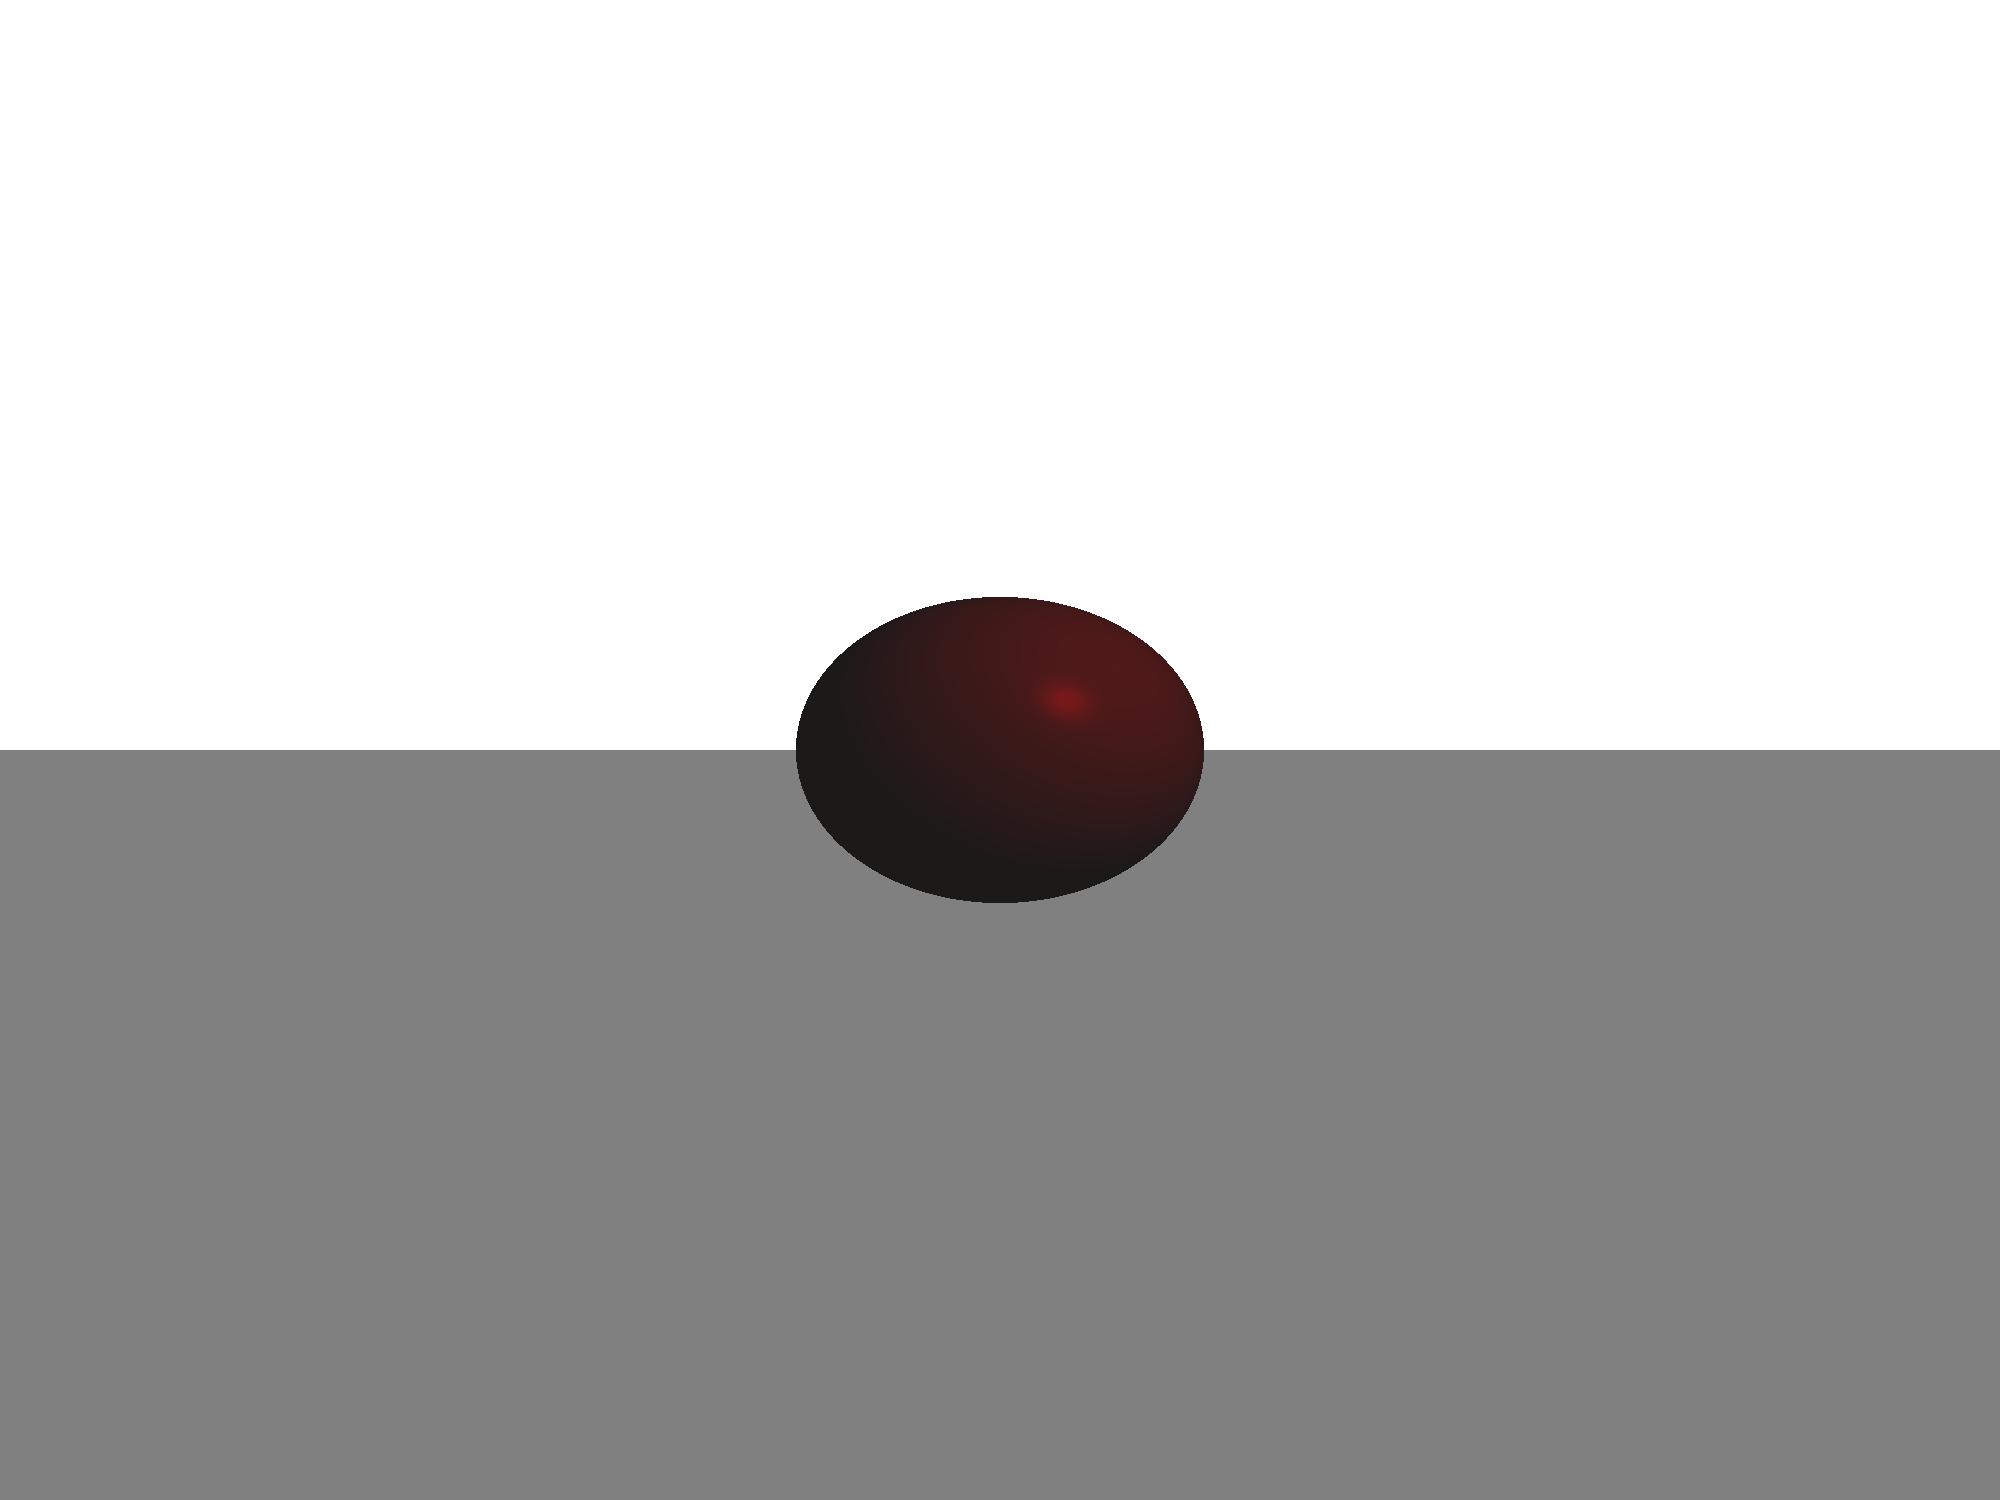
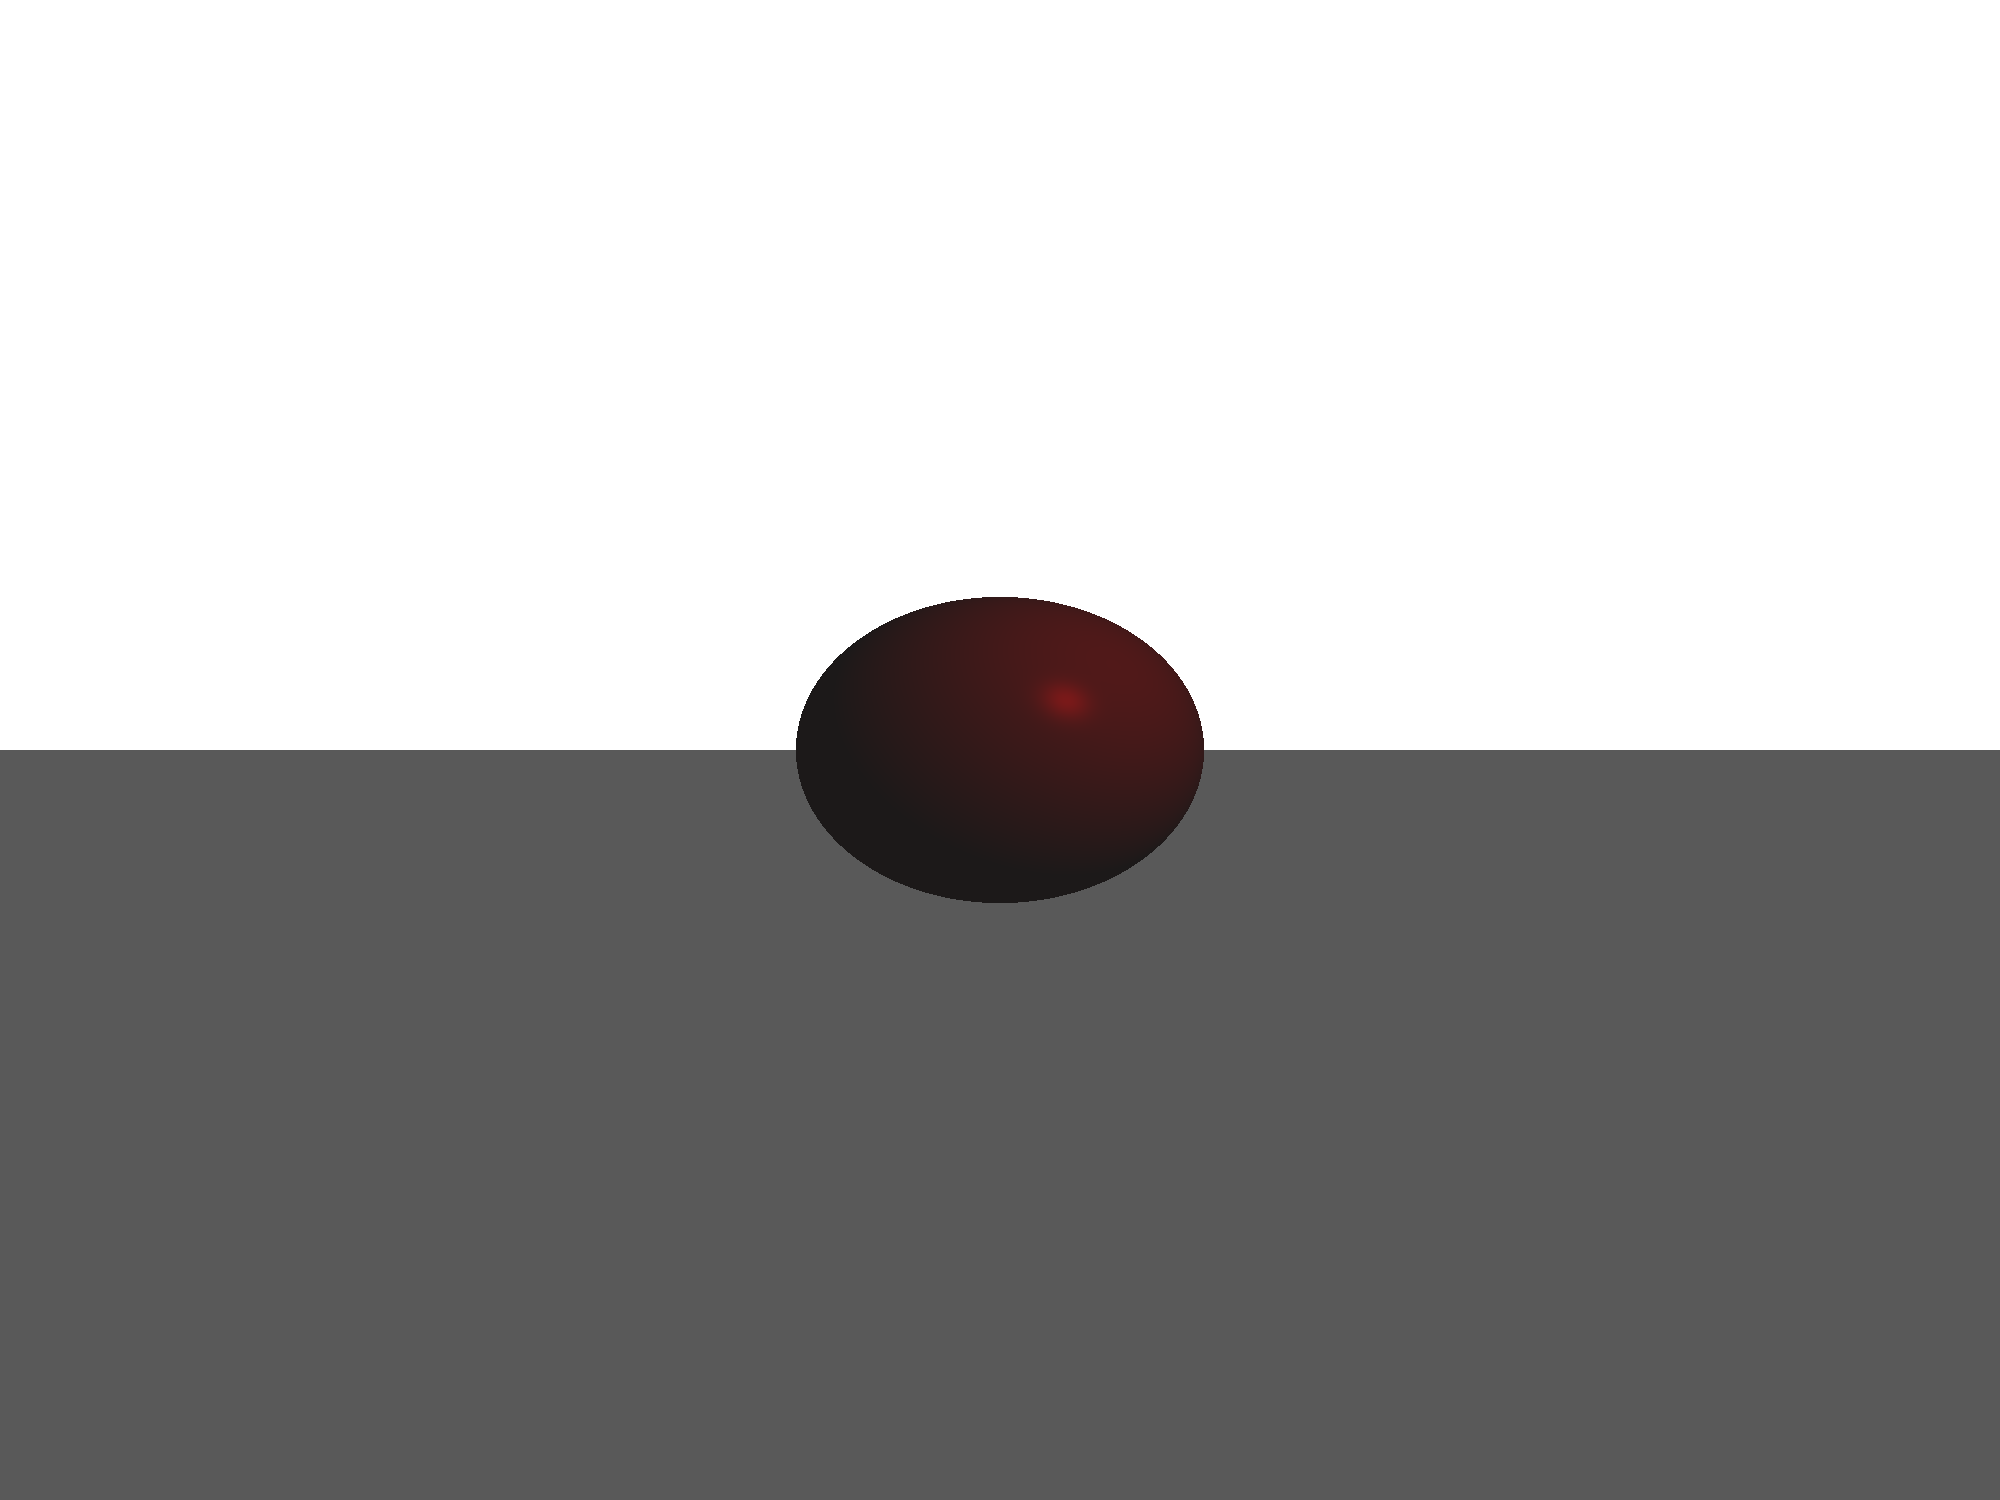
minor code fixing

diff --git a/src/RayTracer.java b/src/RayTracer.java
@@ -36,14 +36,19 @@ public class RayTracer {
                 double minT = Double.POSITIVE_INFINITY;
                 Color pixelColor = FLAT_COLOR;
 
-                // Проверяем пересечение с плоскостью
+                // Проверяем пересечение с плоскостью, только если пока не найдено ближайшее пересечение
                 double tPlane = plane.intersect(ray);
                 if (tPlane > 0 && tPlane < minT) {
                     minT = tPlane;
-                    pixelColor = plane.getColor(); // Цвет пикселя берем из цвета плоскости
+                    // Проверяем, видима ли точка на плоскости из источника света и за сферой относительно источника света
+                    if (!isShadowed(ray, sphere, lightPos) && lightPos.subtract(ray.origin.add(ray.direction.scale(tPlane))).dot(sphere.center.subtract(lightPos)) > 0) {
+                        pixelColor = plane.getColor(); // Освещенная точка
+                    } else {
+                        pixelColor = plane.getColor().darker(); // Тень от сферы
+                    }
                 }
 
-                // Проверяем пересечение с сферой
+                // Проверяем пересечение с сферой только если плоскость не пересекается или пересечение сферы ближе
                 double tSphere = sphere.intersect(ray);
                 if (tSphere > 0 && tSphere < minT) {
                     minT = tSphere;
@@ -56,6 +61,7 @@ public class RayTracer {
         }
 
 
+
         // Сохранение картинки
         try {
             File output = new File("output.png");
@@ -66,6 +72,7 @@ public class RayTracer {
         }
     }
 
+    // Основная логика трассировки лучей
     public static Color trace(Ray ray, Sphere sphere, Vector3 lightPos, Color lightColor) {
         double t = sphere.intersect(ray);
         if (t > 0) {
@@ -97,9 +104,6 @@ public class RayTracer {
             return FLAT_COLOR;
         }
     }
-
-
-
 
     public static double intersectPlane(Ray ray) {
         // Проверяем, что луч направлен вниз по оси Z
